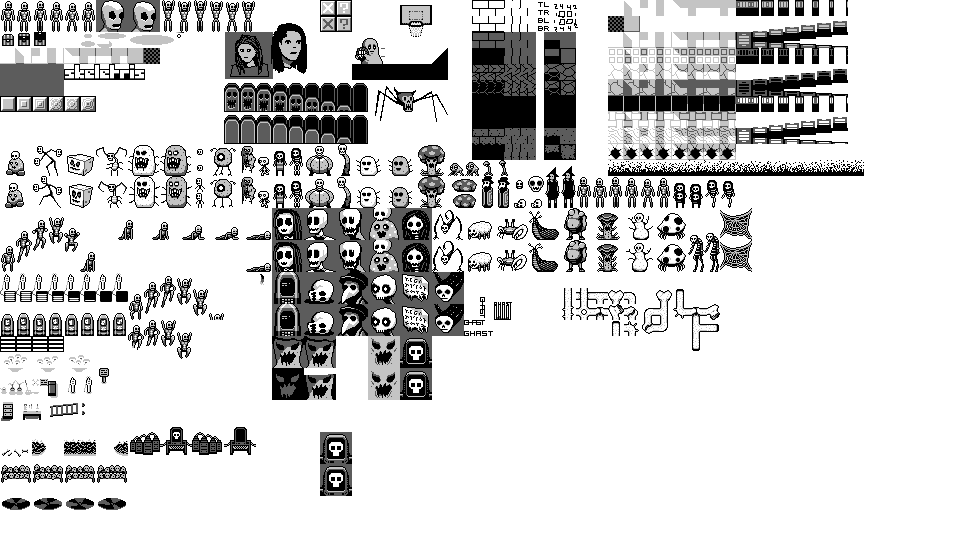
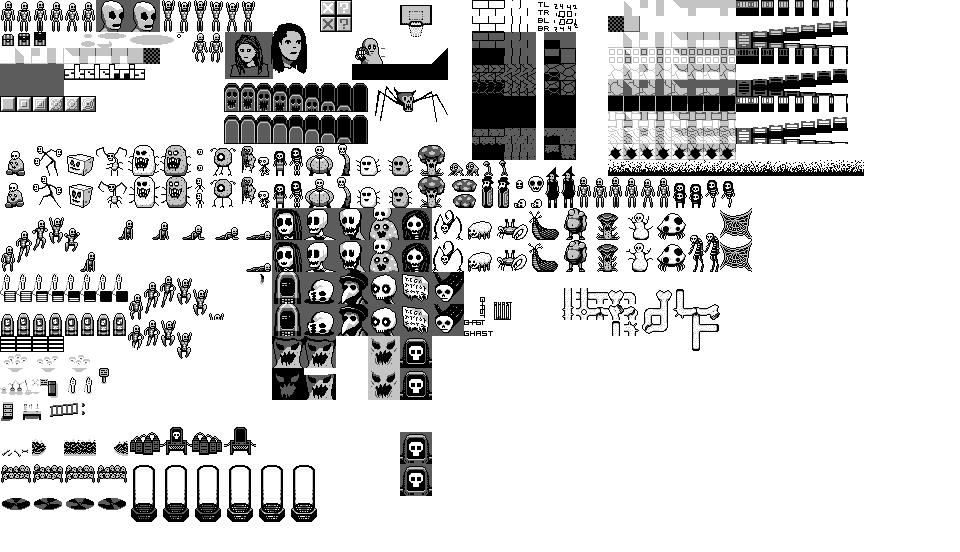
started re-adding save station

Changed region(s): [[0.125, 0.7699, 0.375, 0.9547], [0.4062, 0.7699, 0.4688, 0.9239], [0.1875, 0.0616, 0.25, 0.1232]]

diff --git a/src/world/entities.py b/src/world/entities.py
@@ -2240,6 +2240,127 @@ class NpcTradeEntity(NpcEntity):
             return res_items
 
 
+class SaveStation(Entity):
+
+    def __init__(self, grid_pos, already_used=False, color=None):
+        cell_size = constants.CELLSIZE
+        Entity.__init__(self, grid_pos[0] * cell_size, (grid_pos[1] - 1) * cell_size, cell_size, cell_size)
+        self._color = color if color is not None else colors.WHITE
+
+        self.player_inside = False
+        self.already_used = already_used
+
+        self._sprite_override_key = "save_station"
+
+    def get_map_identifier(self):
+        return ("S", colors.GREEN)
+
+    def update(self, world):
+        self.update_images()
+
+    def set_player_inside(self, val):
+        self.player_inside = val
+
+    def _is_player_inside(self):
+        return False
+
+    def get_player_sprite_override(self):
+        anim_tick = gs.get_instance().anim_tick
+        if self._is_player_inside():
+            idx = anim_tick // 8
+            return spriteref.player_floating[idx % len(spriteref.player_floating)]
+        else:
+            return None
+
+    def _is_idle(self):
+        return True
+
+    def _start_animating_player_entering(self):
+        pass
+
+    def is_interactable(self, world):
+        if self.already_used:
+            return False
+
+        p = world.get_player()
+        if p is None:
+            return False
+
+        # need to be directly below the station to interact
+        p_xy = world.to_grid_coords(*p.center())
+        my_xy = world.to_grid_coords(*self.center())
+
+        return p_xy[0] == my_xy[0] and p_xy[1] == my_xy[1] + 1
+
+    def interact(self, world):
+        if self.already_used:
+            print("WARN: this save station was already used, skipping")
+            return
+
+        self._start_animating_player_entering()
+
+        res = gs.get_instance().save_current_game_to_disk()
+
+        self.set_player_inside(True)
+
+        import src.game.dialog as dialog
+        if res:
+            self.already_used = True
+            num = 23 + random.randint(0, 4)
+            num2 = random.randint(1, 3)
+
+            d = [dialog.Dialog(">> Welcome to CloneBot!\n"),
+
+                 dialog.Dialog(">> Scanning... done.\n" +
+                               ">> Detected: HUSK (97.{})%\n".format(num2) +
+                               ">> Cell count: 3.{}E13.\n".format(num)),
+
+                 dialog.Dialog(">> Using compression rate: VERY_HIGH\n" +
+                               ">> Compressing... done.\n"),
+
+                 dialog.Dialog(">> Uploading to OmniEmbryo... done.\n" +
+                               ">> Queueing for incubation... done."),
+
+                 dialog.Dialog(">> Clone Successful!\n"),
+
+                 dialog.Dialog("Game Saved.")]
+
+        else:
+            self.already_used = False
+            d = [dialog.Dialog("Failed to Save.")]
+
+        gs.get_instance().dialog_manager().set_dialog(dialog.Dialog.link_em_up(d))
+
+    def visible_in_darkness(self):
+        return True
+
+    def get_sprite(self):
+        if self._is_idle():
+            idx = gs.get_instance().anim_tick // 8
+            return spriteref.save_station_idle[idx % len(spriteref.save_station_idle)]
+
+        idx = gs.get_instance().anim_tick
+        return spriteref.save_station_running[idx % len(spriteref.save_station_running)]
+
+    def get_render_center(self):
+        x, y = super().get_render_center()
+        return (x, y + constants.CELLSIZE)
+
+    def update_images(self):
+        if self._img is None:
+            self._img = img.ImageBundle.new_bundle(spriteref.ENTITY_LAYER, scale=1)
+
+        sprite = self.get_sprite()
+        x = self.get_render_center()[0] - (sprite.width() * self._img.scale()) // 2
+        y = self.get_render_center()[1] - (sprite.height() * self._img.scale())
+        depth = self.get_depth()
+        self._img = self._img.update(new_model=sprite, new_x=x, new_y=y,
+                                     new_depth=depth, new_color=self._color)
+
+        self.update_shadow_image()
+
+
+
 class TriggerBox(Entity):
 
     """performs an action when the player enters or leaves the box"""

diff --git a/src/worldgen/worldgen.py b/src/worldgen/worldgen.py
@@ -2,8 +2,9 @@ import random
 
 from src.world.worldstate import World
 from src.game.enemies import EnemyFactory
-from src.world.entities import Player, ExitEntity, SensorDoorEntity, \
-    BossExitEntity, DoorEntity, ChestEntity, ReturnExitEntity, EndGameExitEnitity
+
+import src.world.entities as entities
+import src.utils.colors as colors
 import src.game.music as music
 
 
@@ -181,6 +182,7 @@ class WorldBlueprint:
         for i in range(0, size[0]):
             self.geo.append([World.EMPTY] * size[1])
             self.geo_alt_art.append([None] * size[1])
+        self.geo_color = colors.WHITE
         self.player_spawn = (1, 1)
         self.enemy_spawns = []
         self.chest_spawns = []
@@ -321,9 +323,9 @@ class WorldBlueprint:
 
                 if self.geo[x][y] == World.DOOR:
                     if (x, y) in self.sensor_doors:
-                        door_ent = SensorDoorEntity(x, y)
+                        door_ent = entities.SensorDoorEntity(x, y)
                     else:
-                        door_ent = DoorEntity(x, y)
+                        door_ent = entities.DoorEntity(x, y)
 
                     if (x, y) in self.music_doors:
                         door_music_id = self.music_doors[(x, y)]
@@ -341,28 +343,28 @@ class WorldBlueprint:
                 w.add(enemy, gridcell=spawn_pos)
 
         if self.save_station is not None:
-            pass  # this doesn't work anymore
+            w.add(entities.SaveStation(self.save_station, color=self.geo_color))
 
         for chest_pos in self.chest_spawns:
-            w.add(ChestEntity(chest_pos[0], chest_pos[1]))
+            w.add(entities.ChestEntity(chest_pos[0], chest_pos[1]))
 
-        w.add(Player(0, 0), gridcell=self.player_spawn)
+        w.add(entities.Player(0, 0), gridcell=self.player_spawn)
 
         if len(self.exit_spawns) > 0:
             for xy in self.exit_spawns:
-                w.add(ExitEntity(*xy, self.exit_spawns[xy]))
+                w.add(entities.ExitEntity(*xy, self.exit_spawns[xy]))
 
         if len(self.boss_exit_spawns) > 0:
             for xy in self.boss_exit_spawns:
-                w.add(BossExitEntity(*xy, self.boss_exit_spawns[xy]))
+                w.add(entities.BossExitEntity(*xy, self.boss_exit_spawns[xy]))
 
         if len(self.return_exit_spawns) > 0:
             for return_pos in self.return_exit_spawns:
-                w.add(ReturnExitEntity(return_pos[0], return_pos[1], None))
+                w.add(entities.ReturnExitEntity(return_pos[0], return_pos[1], None))
 
         if len(self.end_of_game_spawns) > 0:
             for pos in self.end_of_game_spawns:
-                w.add(EndGameExitEnitity(pos[0], pos[1]))
+                w.add(entities.EndGameExitEnitity(pos[0], pos[1]))
 
         w.flush_new_entity_additions()
         return w

diff --git a/src/game/spriteref.py b/src/game/spriteref.py
@@ -372,7 +372,9 @@ player_sleep_idle = [make(240, 208 + 32 * i, 32, 32) for i in range(0, 2)]
 
 player_attacks = [make(i*16, 208, 16, 64) for i in range(0, 5)]
 player_squat = make(80, 240, 16, 32)
-player_little_jump_down = [make(128 + i*16, 272, 16, 48) for i in range(0, 6)]
+player_little_jump_down = [make(128 + i * 16, 272, 16, 48) for i in range(0, 6)]
+
+player_floating = [make(192 + i * 16, 32, 16, 32) for i in range(0, 2)]
 
 player_faces = [make(96 + i * 32, 0, 32, 32) for i in range(0, 2)]
 
@@ -577,8 +579,8 @@ spinny_cubes_fat = [make(0 + i*16, 368, 16, 16) for i in range(0, 6)]
 doctor_all = [make(480 + i * 16, 176, 16, 32) for i in range(0, 2)]
 doctor_faces = [make(336, 272 + i * 32, 32, 32) for i in range(0, 2)]
 
-save_stations = [make(0 + 16 * i, 312, 16, 24) for i in range(0, 8)]
-save_station_faces = [make(272, 272 + i*32, 32, 32) for i in range(0, 2)]
+print_bot_all = [make(0 + 16 * i, 312, 16, 24) for i in range(0, 8)]
+print_bot_faces = [make(272, 272 + i*32, 32, 32) for i in range(0, 2)]
 
 sign_faces = [make(400, 272 + i * 32, 32, 32) for i in range(0, 2)]
 cave_horror_faces = [make(368, 336 + i * 32, 32, 32) for i in range(0, 2)]
@@ -611,6 +613,9 @@ def get_floor_lighting(val):
 
 end_level_consoles = [make(i*16, 272, 16, 32) for i in range(0, 8)]
 progress_spinner = [make((i // 4) * 16, (i % 4) * 4 + 336, 16, 4) for i in range(0, 16)]
+
+save_station_idle = [make(128 + i * 32, 464, 32, 64) for i in range(0, 3)]
+save_station_running = [make(128 + i * 32, 464, 32, 64) for i in range(3, 6)]
 
 
 """Lookup table for wall sprites:   

diff --git a/src/game/npc.py b/src/game/npc.py
@@ -106,7 +106,7 @@ class GrokTemplate(NpcTemplate):
 class MachineTemplate(NpcTemplate):
 
     def __init__(self):
-        NpcTemplate.__init__(self, NpcID.MACHINE, "PrintBot", sr.save_stations, sr.save_station_faces, ("P", colors.YELLOW))
+        NpcTemplate.__init__(self, NpcID.MACHINE, "PrintBot", sr.print_bot_all, sr.print_bot_faces, ("P", colors.YELLOW))
 
     def get_trade_protocol(self, level):
         if level >= 8:  # city only

diff --git a/src/game/globalstate.py b/src/game/globalstate.py
@@ -119,6 +119,10 @@ class GlobalState:
     def save_settings_to_disk(self):
         self._settings.save_to_disk()
 
+    def save_current_game_to_disk(self):
+        print("INFO: saving game...")
+        return True
+
     def event_queue(self):
         return self._event_queue
 

diff --git a/src/worldgen/zones.py b/src/worldgen/zones.py
@@ -219,6 +219,8 @@ class ZoneLoader:
 
             exit_id = next_storyline_zone(zone_id)  # will be None if this isn't a storyline zone
 
+            bp.geo_color = get_zone(zone_id).get_color()
+
             unknowns = {}
 
             for x in range(0, img_size[0]):
